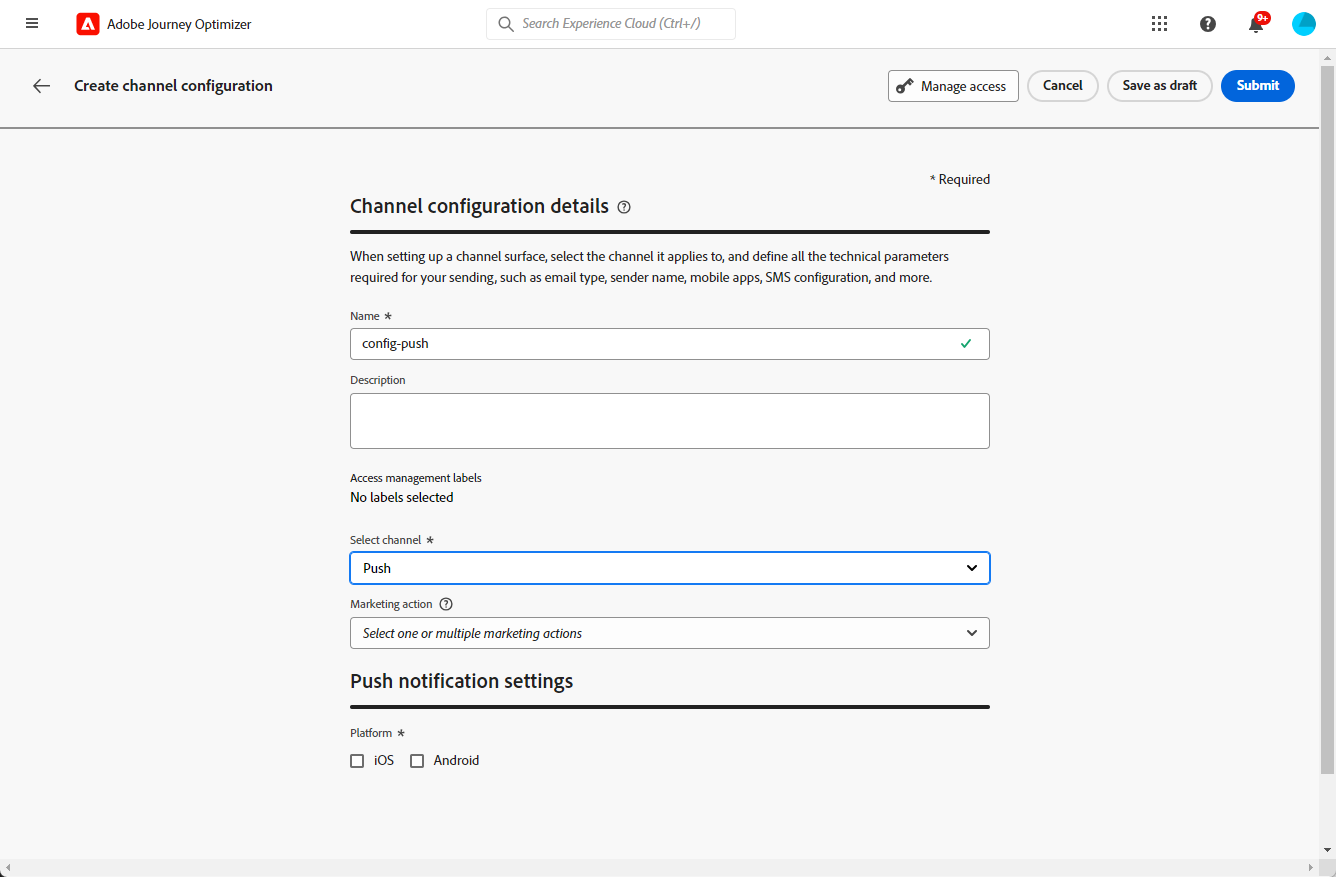
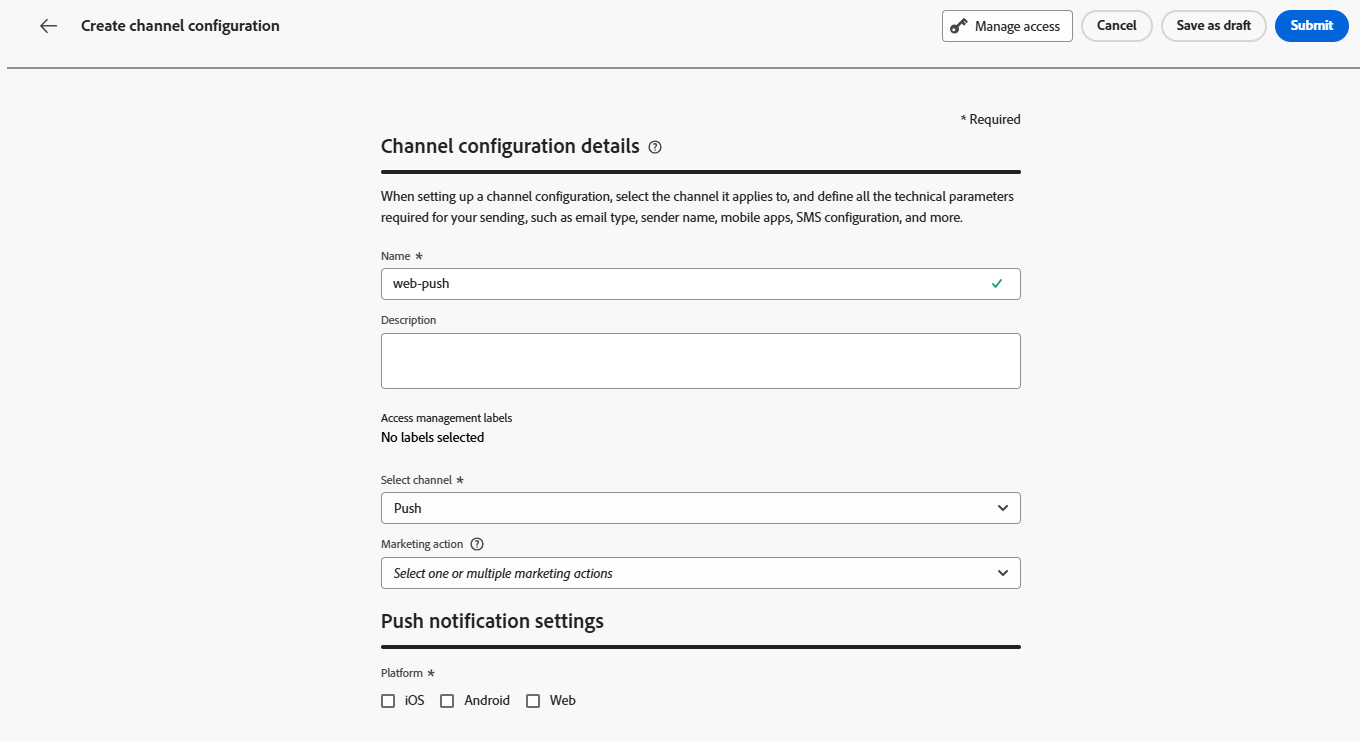
Web push (#2079)
* in progress

* update TOC

* RN updates

* Update config

* update RN

* Update availability

* update

* update RN

* update RN

* Update RN

* hide documentation

diff --git a/help/using/push/design-push-web.md b/help/using/push/design-push-web.md
@@ -1,0 +1,74 @@
+---
+solution: Journey Optimizer
+product: journey optimizer
+title: Design a push notification
+description: Learn how to design a web push notification in Journey Optimizer
+feature: Push
+topic: Content Management
+role: User
+level: Beginner
+hidefromtoc: yes
+hide: yes
+---
+# Design a web push notification {#design-push-notification}
+
+>[!AVAILABILITY]
+>
+>Currently, Web push notifications in Journey Optimizer do not support the **Silent Notification** and **Simulate Content** features, but will be available at a later time.
+
+After creating your Web push notification campaign or journey, you can proceed to design its content and structure according to your requirements. Note that before sending any Web push notification, it is necessary to first configure this channel within your [Channel configuration](push-configuration-web.md).
+
+<!--
+## Send a silent notification {#silent-notification}
+
+A silent push notification (also called a background notification) is a hidden message sent to your web application without alerting the user.
+
+To enable a silent notification, enable the **[!UICONTROL Silent Notification]** option. When this option is used, the notification is delivered directly to the application, and no alert, banner, or sound is shown to the user.
+
+Use the **Custom Data** section to include additional information in the form of key-value pairs. 
+
+![](assets/web-silent.png)
+-->
+
+## Title and Body {#push-title-body}
+
+To compose your message, click the **[!UICONTROL Title]** and **[!UICONTROL Body]** fields. Use the personalization editor to define content, [personalize data](../personalization/personalize.md) and add [dynamic content](../personalization/get-started-dynamic-content.md).
+    
+Click **[!UICONTROL Edit text with the AI assistant]** to easily generate your content using Journey Optimizer AI assistant.
+
+![](assets/web-design-body.png)
+
+## On click behavior {#on-click-behavior}
+
+Use the **[!UICONTROL Body click behavior]** field to define a deep link that determines what happens when a user clicks on the notification body. This allows you to send users directly to a specific page or section of your web application.
+
+![](assets/web-onclick.png)
+
+## Add media {#add-media-push}
+
+Enter the media URL in the **[!UICONTROL Add media]** field. You can also include personalization tokens in the URL to customize the content for each user.
+
+Click ![Edit text with the AI assistant](assets/do-not-localize/Smock_ImageAdd_18_N.svg) to quickly generate media using the Journey Optimizer AI Assistant.
+
+![](assets/web-media.png)
+
+## Add buttons {#add-buttons-push}
+
+Make your web push notifications interactive by adding buttons to your content.
+
+Note that buttons are only visible when the device is unlocked. If the screen is locked, only the **[!UICONTROL Title]** and **[!UICONTROL Message]** will be shown.
+
+Use the **[!UICONTROL Add Button]** option to define each button's label and associated action, as detailed below:
+
+* **[!UICONTROL Deeplink]**: Redirect users to a specific view, section, or tab within your app. Enter the deeplink URL in the associated field.
+
+* **[!UICONTROL Web URL]**: Redirect users to an external webpage. Enter the URL in the associated field.
+
+![](assets/push_buttons.png)
+
+## Custom data {#custom-data}
+
+In the **[!UICONTROL Custom Data]** section, you can add custom key-value pairs to the notification payload. These values can be used by your web application to trigger specific actions or customize the user experience. For more on how to set up push notifications in Adobe Experience Platform, refer to [this section](push-gs.md)
+
+![](assets/web-custom.png)
+

diff --git a/help/using/push/push-configuration-web.md b/help/using/push/push-configuration-web.md
@@ -6,7 +6,8 @@ description: Learn how to configure your environment to send push notifications 
 feature: Push, Channel Configuration
 role: Admin
 level: Intermediate
-exl-id: 7099d44e-5d5d-4eef-9477-f68f4eaa1983
+hidefromtoc: yes
+hide: yes
 ---
 # Configure push notification channel {#push-notification-configuration}
 
@@ -126,8 +127,7 @@ Adobe Experience Platform Mobile SDK provides client-side integration APIs for y
 
 By the end of this, you should have also created and configured a mobile property in [!DNL Adobe Experience Platform Data Collection]. You will typically create a mobile property for each mobile application you want to manage. Learn how to create and configure a mobile property in [Adobe Experience Platform Mobile SDK documentation](https://developer.adobe.com/client-sdks/documentation/getting-started/create-a-mobile-property/){target="_blank"}.
 
-<!--To enable **Web push notifications**, ensure that the [pushNotifications property](https://experienceleague.adobe.com/en/docs/experience-platform/web-sdk/commands/configure/pushnotifications) is properly configured within the Web SDK. Then, use [the sendPushSubscription command](https://experienceleague.adobe.com/en/docs/experience-platform/web-sdk/commands/sendpushsubscription) to register push subscriptions with Adobe Experience Platform.
--->
+To enable **Web push notifications**, ensure that the [pushNotifications property](https://experienceleague.adobe.com/en/docs/experience-platform/web-sdk/commands/configure/pushnotifications) is properly configured within the Web SDK. Then, use [the sendPushSubscription command](https://experienceleague.adobe.com/en/docs/experience-platform/web-sdk/commands/sendpushsubscription) to register push subscriptions with Adobe Experience Platform.
 
 ## Step 1: Add your app push credentials in Journey Optimizer {#push-credentials-launch}
 
@@ -169,7 +169,6 @@ The mobile app push credential registration is required to authorize Adobe to se
 
         1. Drag and drop the FCM push credentials. For more details on how to get the push credentials refer to [Google Documentation](https://firebase.google.com/docs/admin/setup#initialize-sdk){target="_blank"}.
 
-<!--
     * **For Web**
 
         ![](assets/add-app-config-web.png)
@@ -177,8 +176,7 @@ The mobile app push credential registration is required to authorize Adobe to se
         1. Provide the **[!UICONTROL App ID]**.
 
         1. Enter your **[!UICONTROL VAPID public key]** and **[!UICONTROL private key]**.
--->       
-
+        
 1. Click **[!UICONTROL Submit]** to create your app configuration.
 
 <!--
@@ -222,7 +220,7 @@ Once creating your push credentials, you need to create a configuration to be ab
 
 1. Select **[!UICONTROL Marketing action]**(s) to associate consent policies to the messages using this configuration. All consent policies associated with the marketing action are leveraged in order to respect the preferences of your customers. [Learn more](../action/consent.md#surface-marketing-actions)
 
-1. Choose your **[!UICONTROL Platform]**: Android and/or iOS <!--and/or Web-->.
+1. Choose your **[!UICONTROL Platform]**: Android, iOS and/or Web.
 
 1. Select the same **[!UICONTROL App id]** as for your [push credential](#push-credentials-launch) configured above.
 

diff --git a/help/TOC.md b/help/TOC.md
@@ -357,11 +357,13 @@ solution: Journey Optimizer
     + [Get started with push notifications](using/push/get-started-push.md)
     + [Create a push notification](using/push/create-push.md)
     + [Design your push notification](using/push/design-push.md)
+    + [Design your Web push notification](using/push/design-push-web.md)
     + [Check & send your push notification](using/push/send-push.md)
     + Configure push notifications {#push-config}
       + [Configure push notifications](/help/rp_landing_pages/push-config-landing-page.md)
       + [Push Notification flow](using/push/push-gs.md)
       + [Configure push notification channel](using/push/push-configuration.md)
+      + [Configure push notification channel](using/push/push-configuration-web.md)
       + [Mobile onboarding quick start workflow](using/push/mobile-onboarding-wf.md)
   + SMS / MMS / RCS channel {#sms}
     + [SMS / MMS / RCS channel](/help/rp_landing_pages/sms-landing-page.md)

diff --git a/help/using/push/design-push.md b/help/using/push/design-push.md
@@ -69,7 +69,7 @@ Once added, the media displays on the right of the notification body.
 
 Create an actionable notification by adding buttons to your push content. 
 
-If the device screen is locked, these buttons are not displayed: only the the **Title** and the **Message** of the notification are visible. If their device is unlocked, recipients will see the buttons.
+If the device screen is locked, these buttons are not displayed: only then the **Title** and the **Message** of the notification are visible. If their device is unlocked, recipients will see the buttons.
 
 In the Android version, you can add up to three buttons.
 

diff --git a/help/using/rn/release-notes.md b/help/using/rn/release-notes.md
@@ -245,8 +245,6 @@ Availability date: October 6, 2025
 <p>Availability date: Sept 1, 2025</p>
 </td>
 </tr>
-</tbody>
-</table>
 
 
 ### Improvements {#sept-25-9-improvements}
